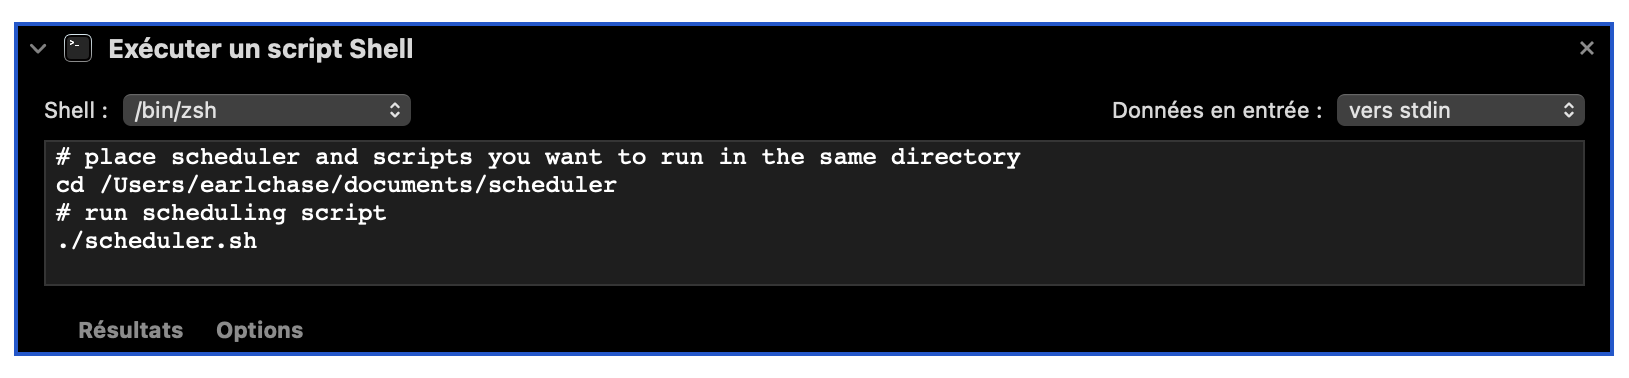
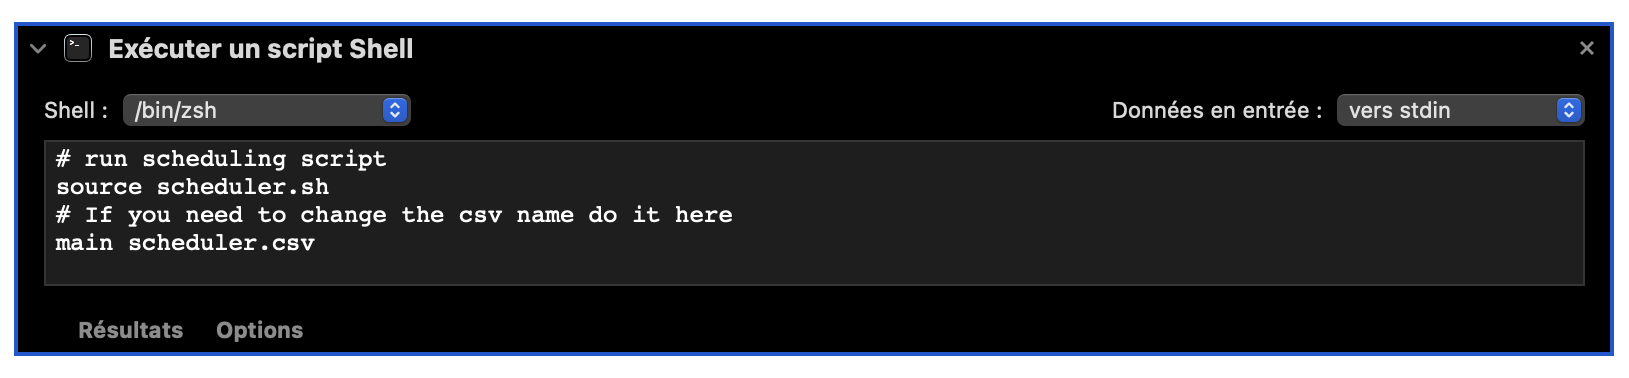
Script is called from the workflow

Changed region(s): [[0.0307, 0.3783, 0.6446, 0.6693], [0.2149, 0.2619, 0.2762, 0.3201], [0.9515, 0.2619, 0.9822, 0.3201]]

diff --git a/README.md b/README.md
@@ -2,10 +2,10 @@
 
 ## CSV Setup
 1. Place the day, the script time and the full script path in the scheduler.csv. There are examples in the csv for you to follow.
-   - **Don't remove the heading**, it is ignored when the script is ran, but if you do remove it, all of your scripts will not run.
-   - Don't worry about the order you put the scripts in, they will be sorted in the code.
+   - **Don't remove the header row**, it is ignored when the script is ran, but if you do remove it, all of your scripts will not run.
+   - If you need to run to more than one script per day, order them by time. 
    - Days must be capitalized: Monday, Tuesday, etc.
-   - Time must be written in the 24 hour format: 00:00-23:59
+   - Time must be written in the 24 hour format: 00:00-23:59.
 
 ## Workflow setup
 1. Open scheduler.workflow with automator.
@@ -15,7 +15,7 @@
 	cd /Users/earlchase/documents/scheduler
 	```
 
-3. The script is exectuable and will run when called by the workflow so no further configuration is needed.
+3. The script is sourced and then called by the workflow so no further configuration is needed.
 
 ## Automator App Setup
 1. Open automator.
@@ -26,7 +26,7 @@
 ## Calendar
 1. Open your calendar and create a recurring event.
    - The first time you should set this event to run basically immediately as the calendar is going to ask you for permission to open the automator app.
-   - Once you have run this one time and given the permission to run, change the date of the event to about an hour before you normally run your scripts.
+   - Once you have run this one time and given the permission to run, change the date of the event to about 30 minutes to an hour before you normally run your scripts.
 2. Click on alert and choose customize.
 3. Then click on the top dropdown menu that shows up and choose open a file.
 4. Click on calendar and select other.
@@ -39,5 +39,3 @@
 ```Shell
 python3 /Users/earlchase/documents/scheduling.py
 ```
-
-- If you need to run more than one script per day, this script will run them in order. 
